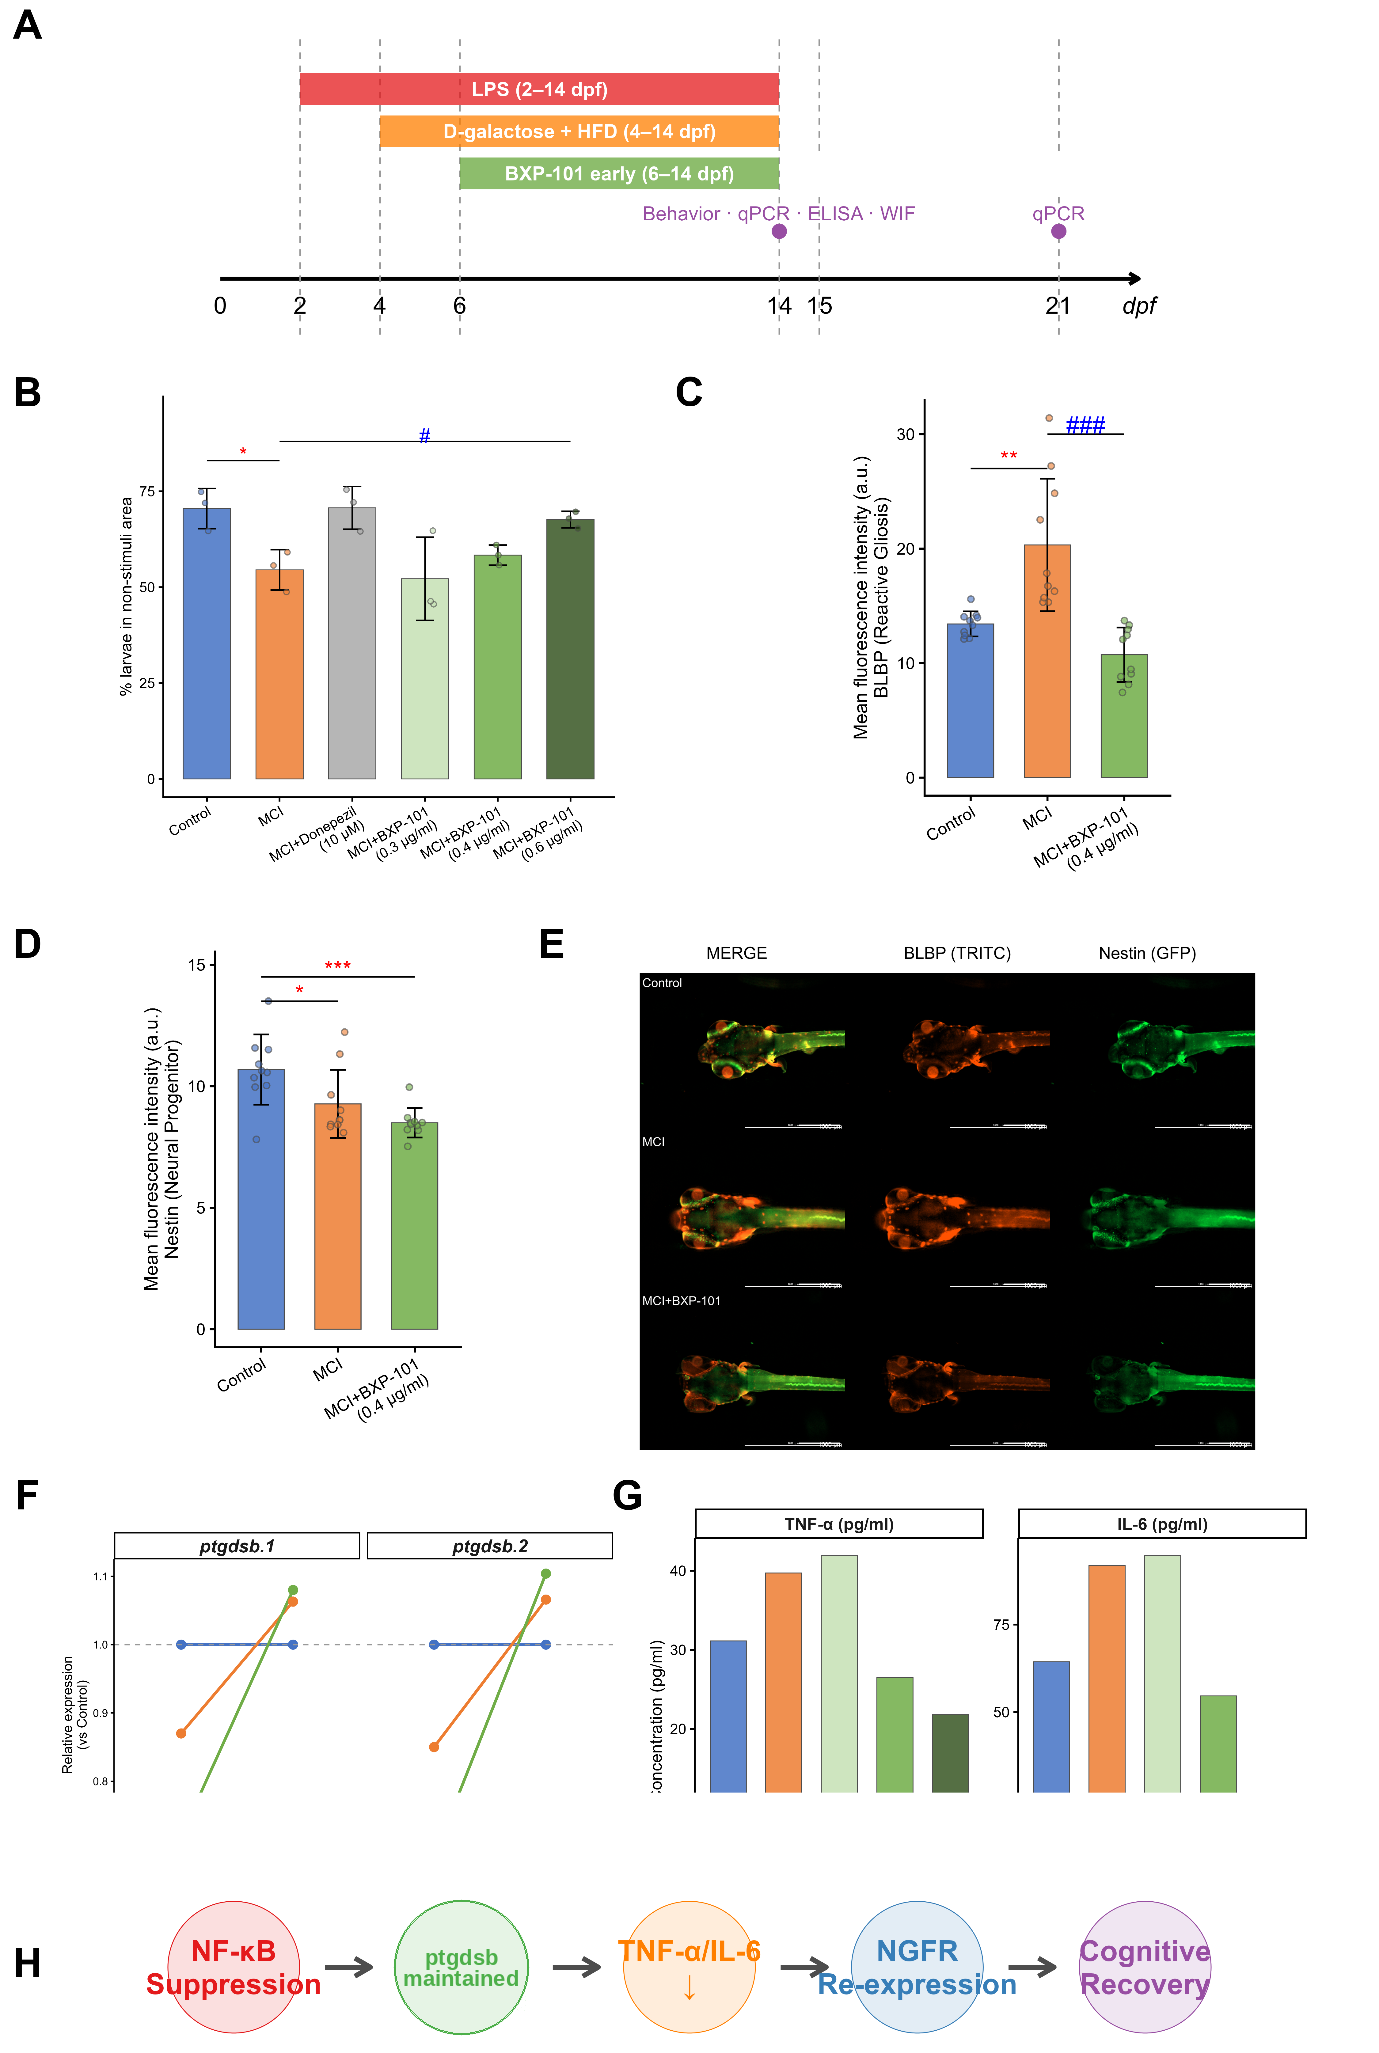
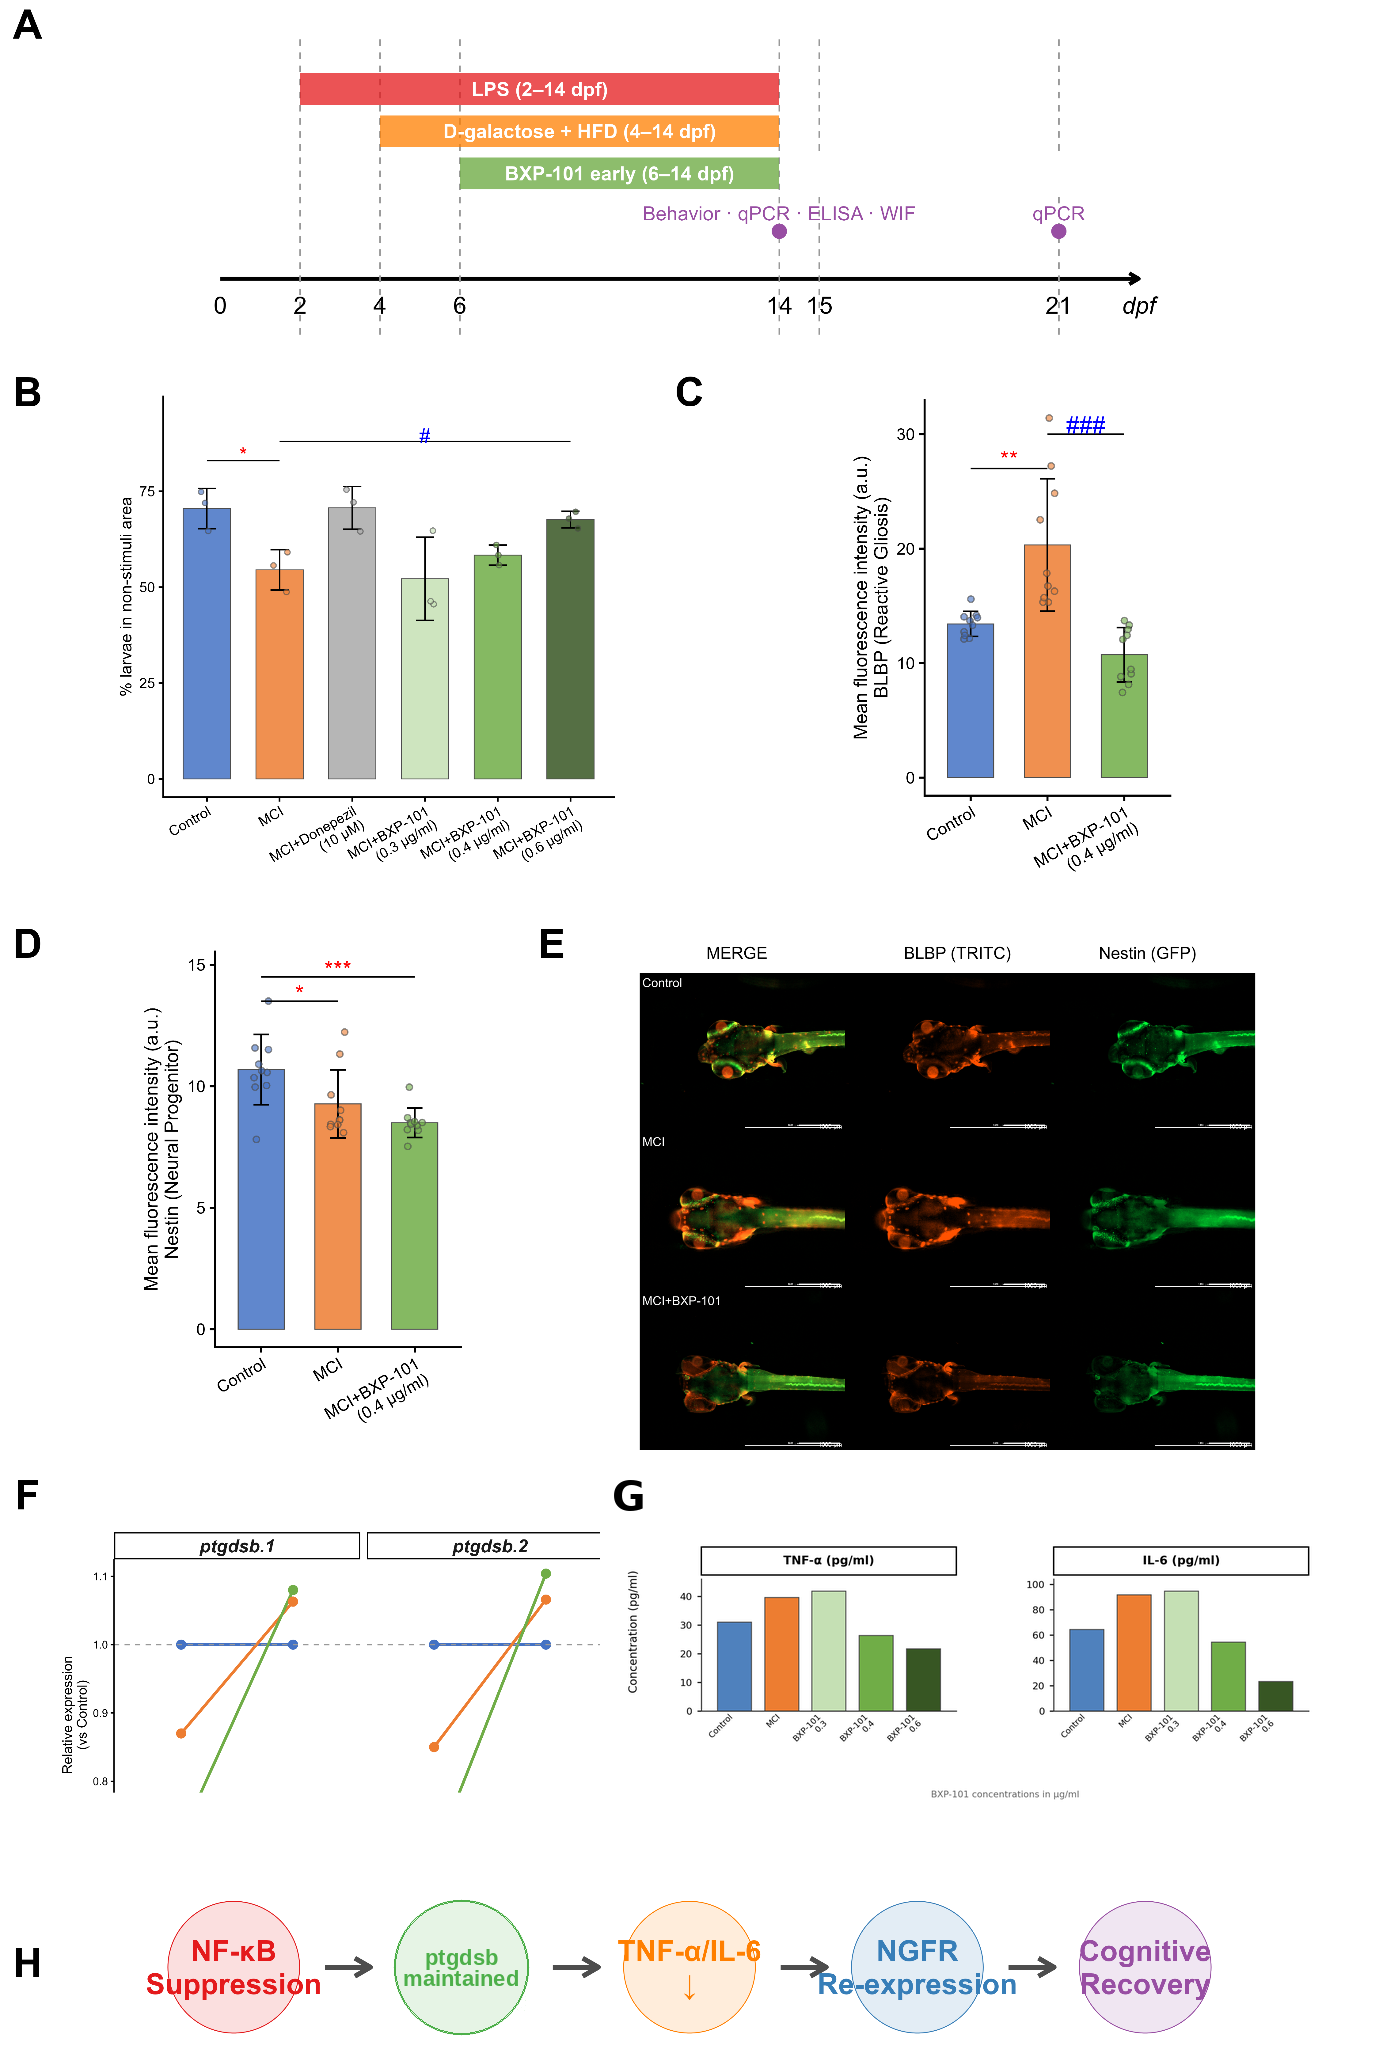
Fig2: restore missing IL-6 BXP-101 0.6 bar (23.4 pg/ml) in panel G; README: fix Sejin Park affiliation to Kangwon (2)

diff --git a/README.md b/README.md
@@ -1,4 +1,4 @@
-# Multi-faceted research platform for MCI-to-AD progression: integrating data from zebrafish, mouse models, and human patient cohorts
+# A biphasic astrocytic PTGDS trajectory marks a metabolic vulnerability stage in prodromal Alzheimer’s disease
 
 [![License: MIT](https://img.shields.io/badge/License-MIT-yellow.svg)](https://opensource.org/licenses/MIT)
 [![R version](https://img.shields.io/badge/R-4.3.2-276DC3)](https://www.r-project.org/)
@@ -7,9 +7,10 @@
 
 ## Authors
 
-**Youngouk Kim**¹†\*, **Woomyung Heo**¹†, **Sejin Park**¹†, and colleagues
+**Youngouk Kim**¹†\*, **Woomyung Heo**¹†, **Sejin Park**²†, and colleagues
 
 ¹ BioXP Research Institute, Donghae, Gangwon-do, Republic of Korea
+² Department of Food Biotechnology and Environmental Science, Kangwon National University, Chuncheon 24341, Republic of Korea
 † Co-first authors  · \* Corresponding author
 
 ---
